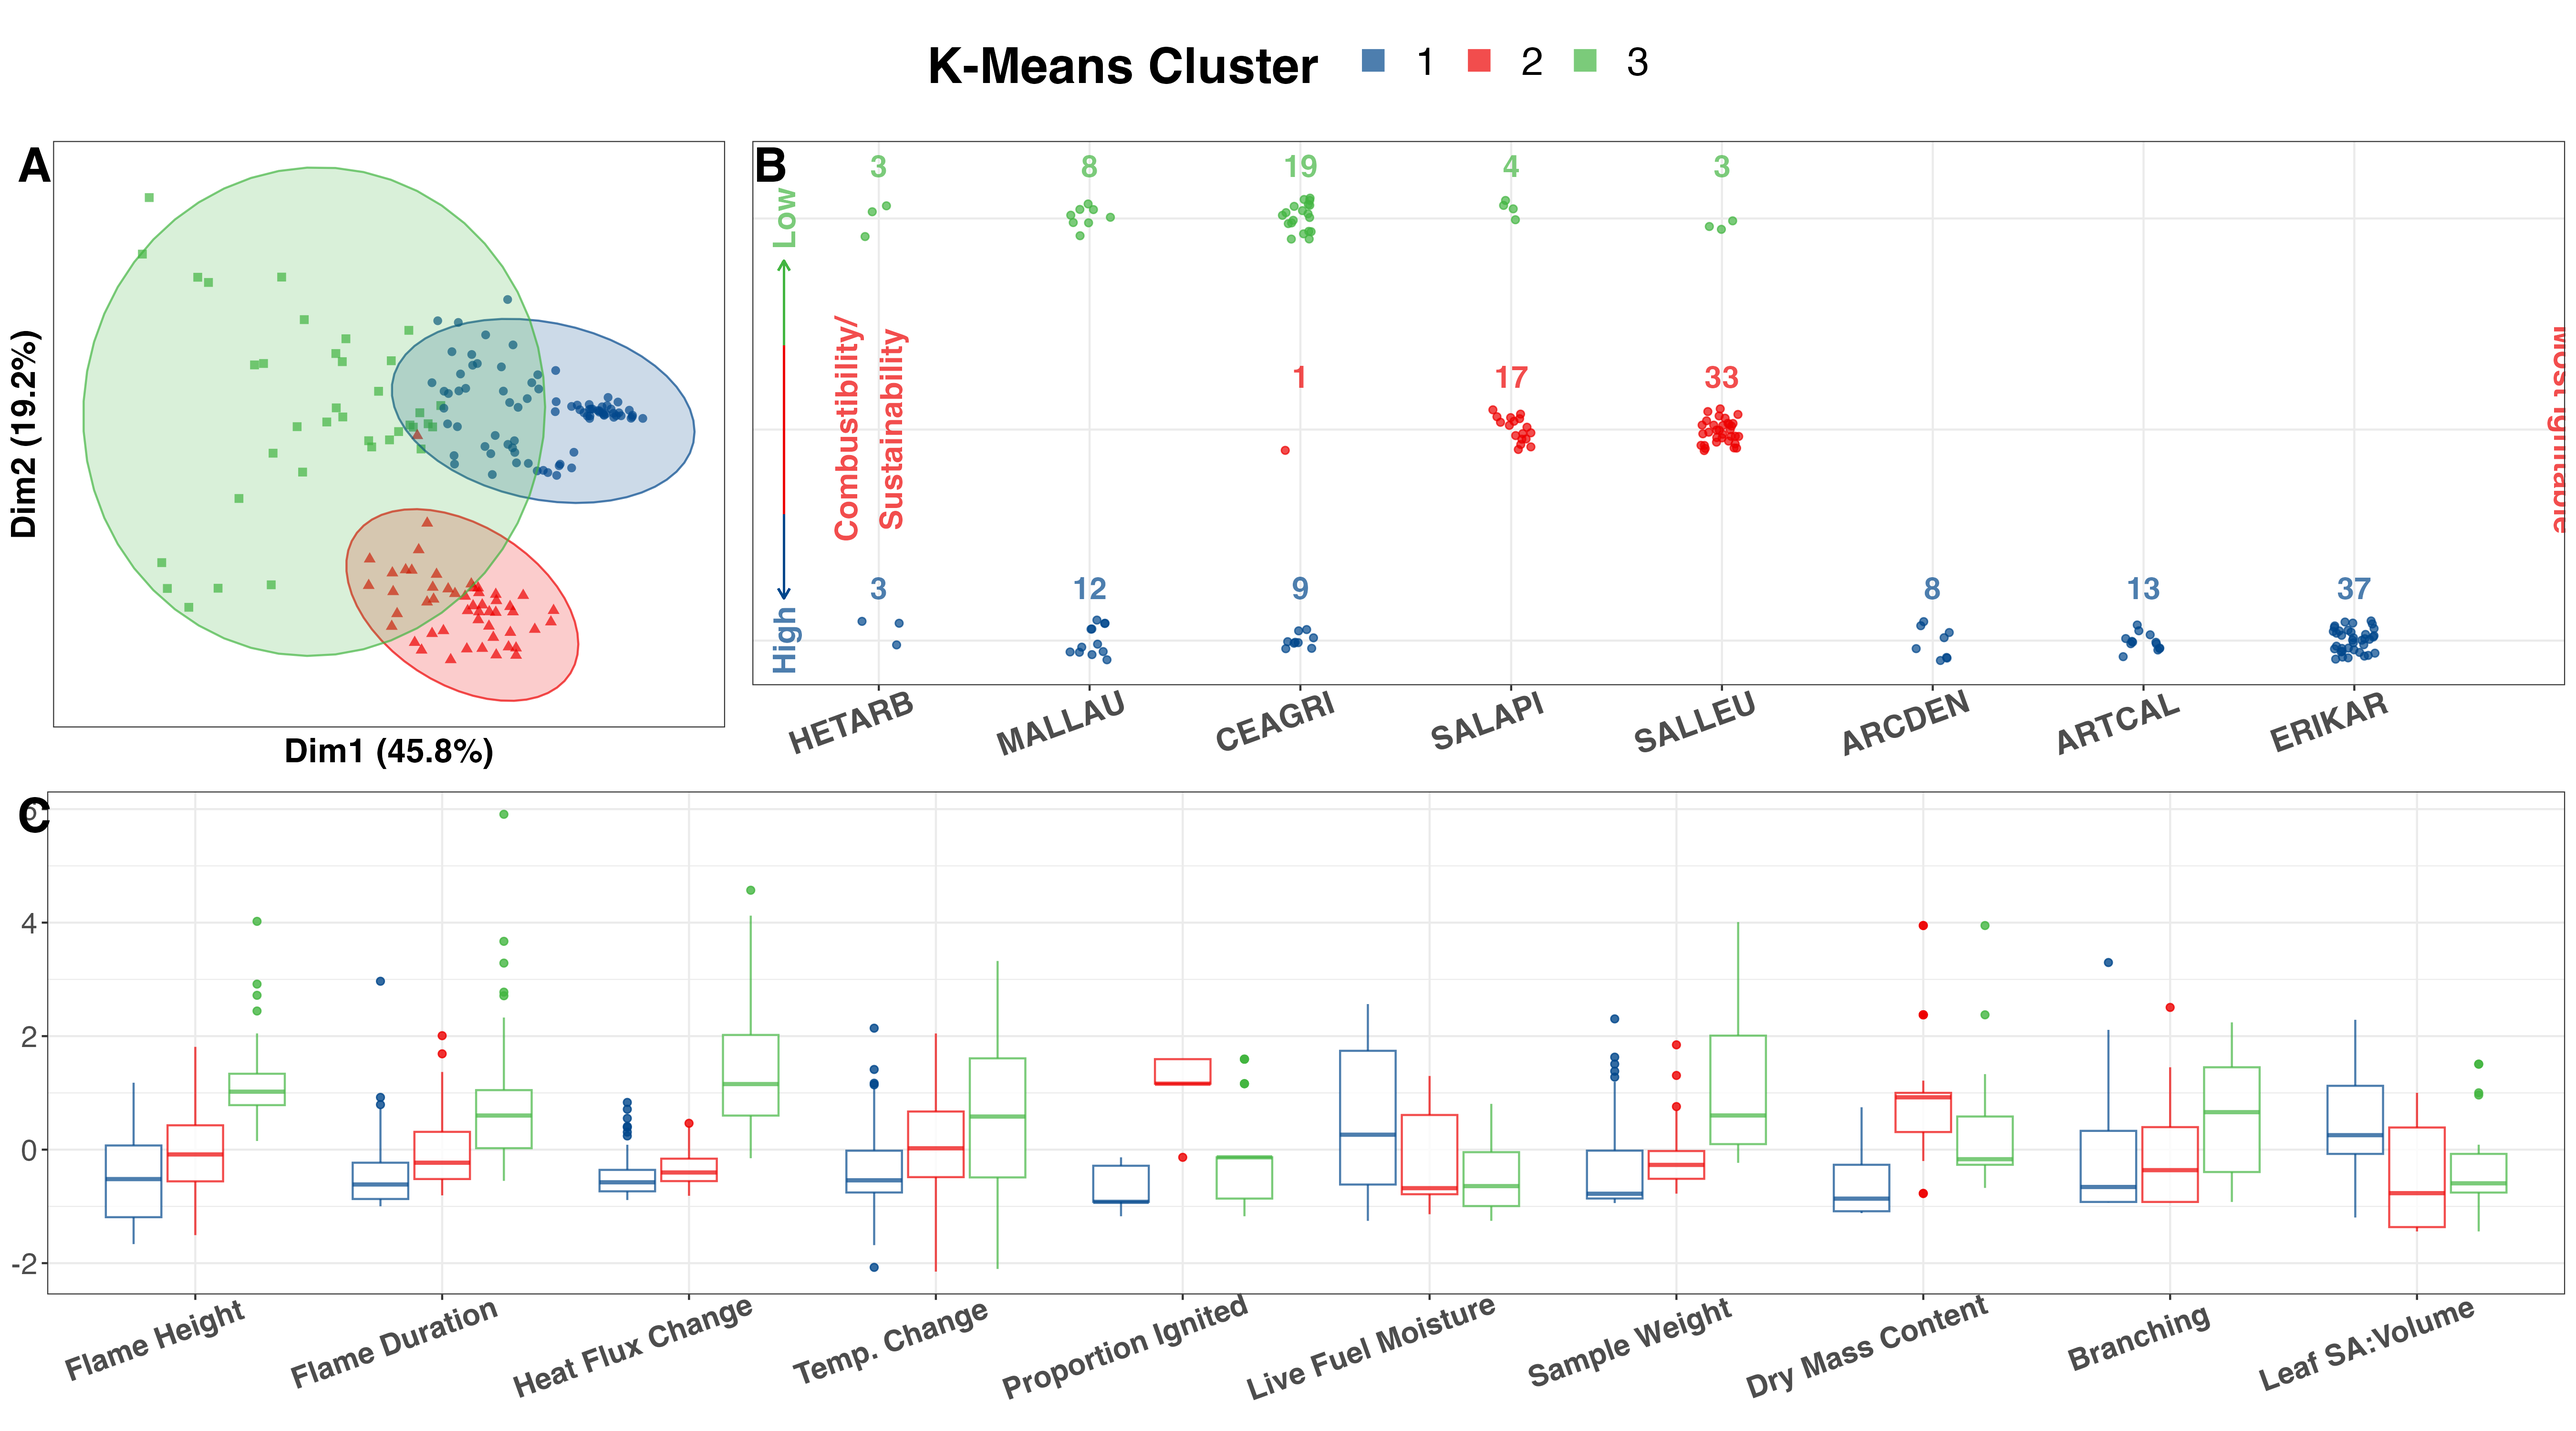
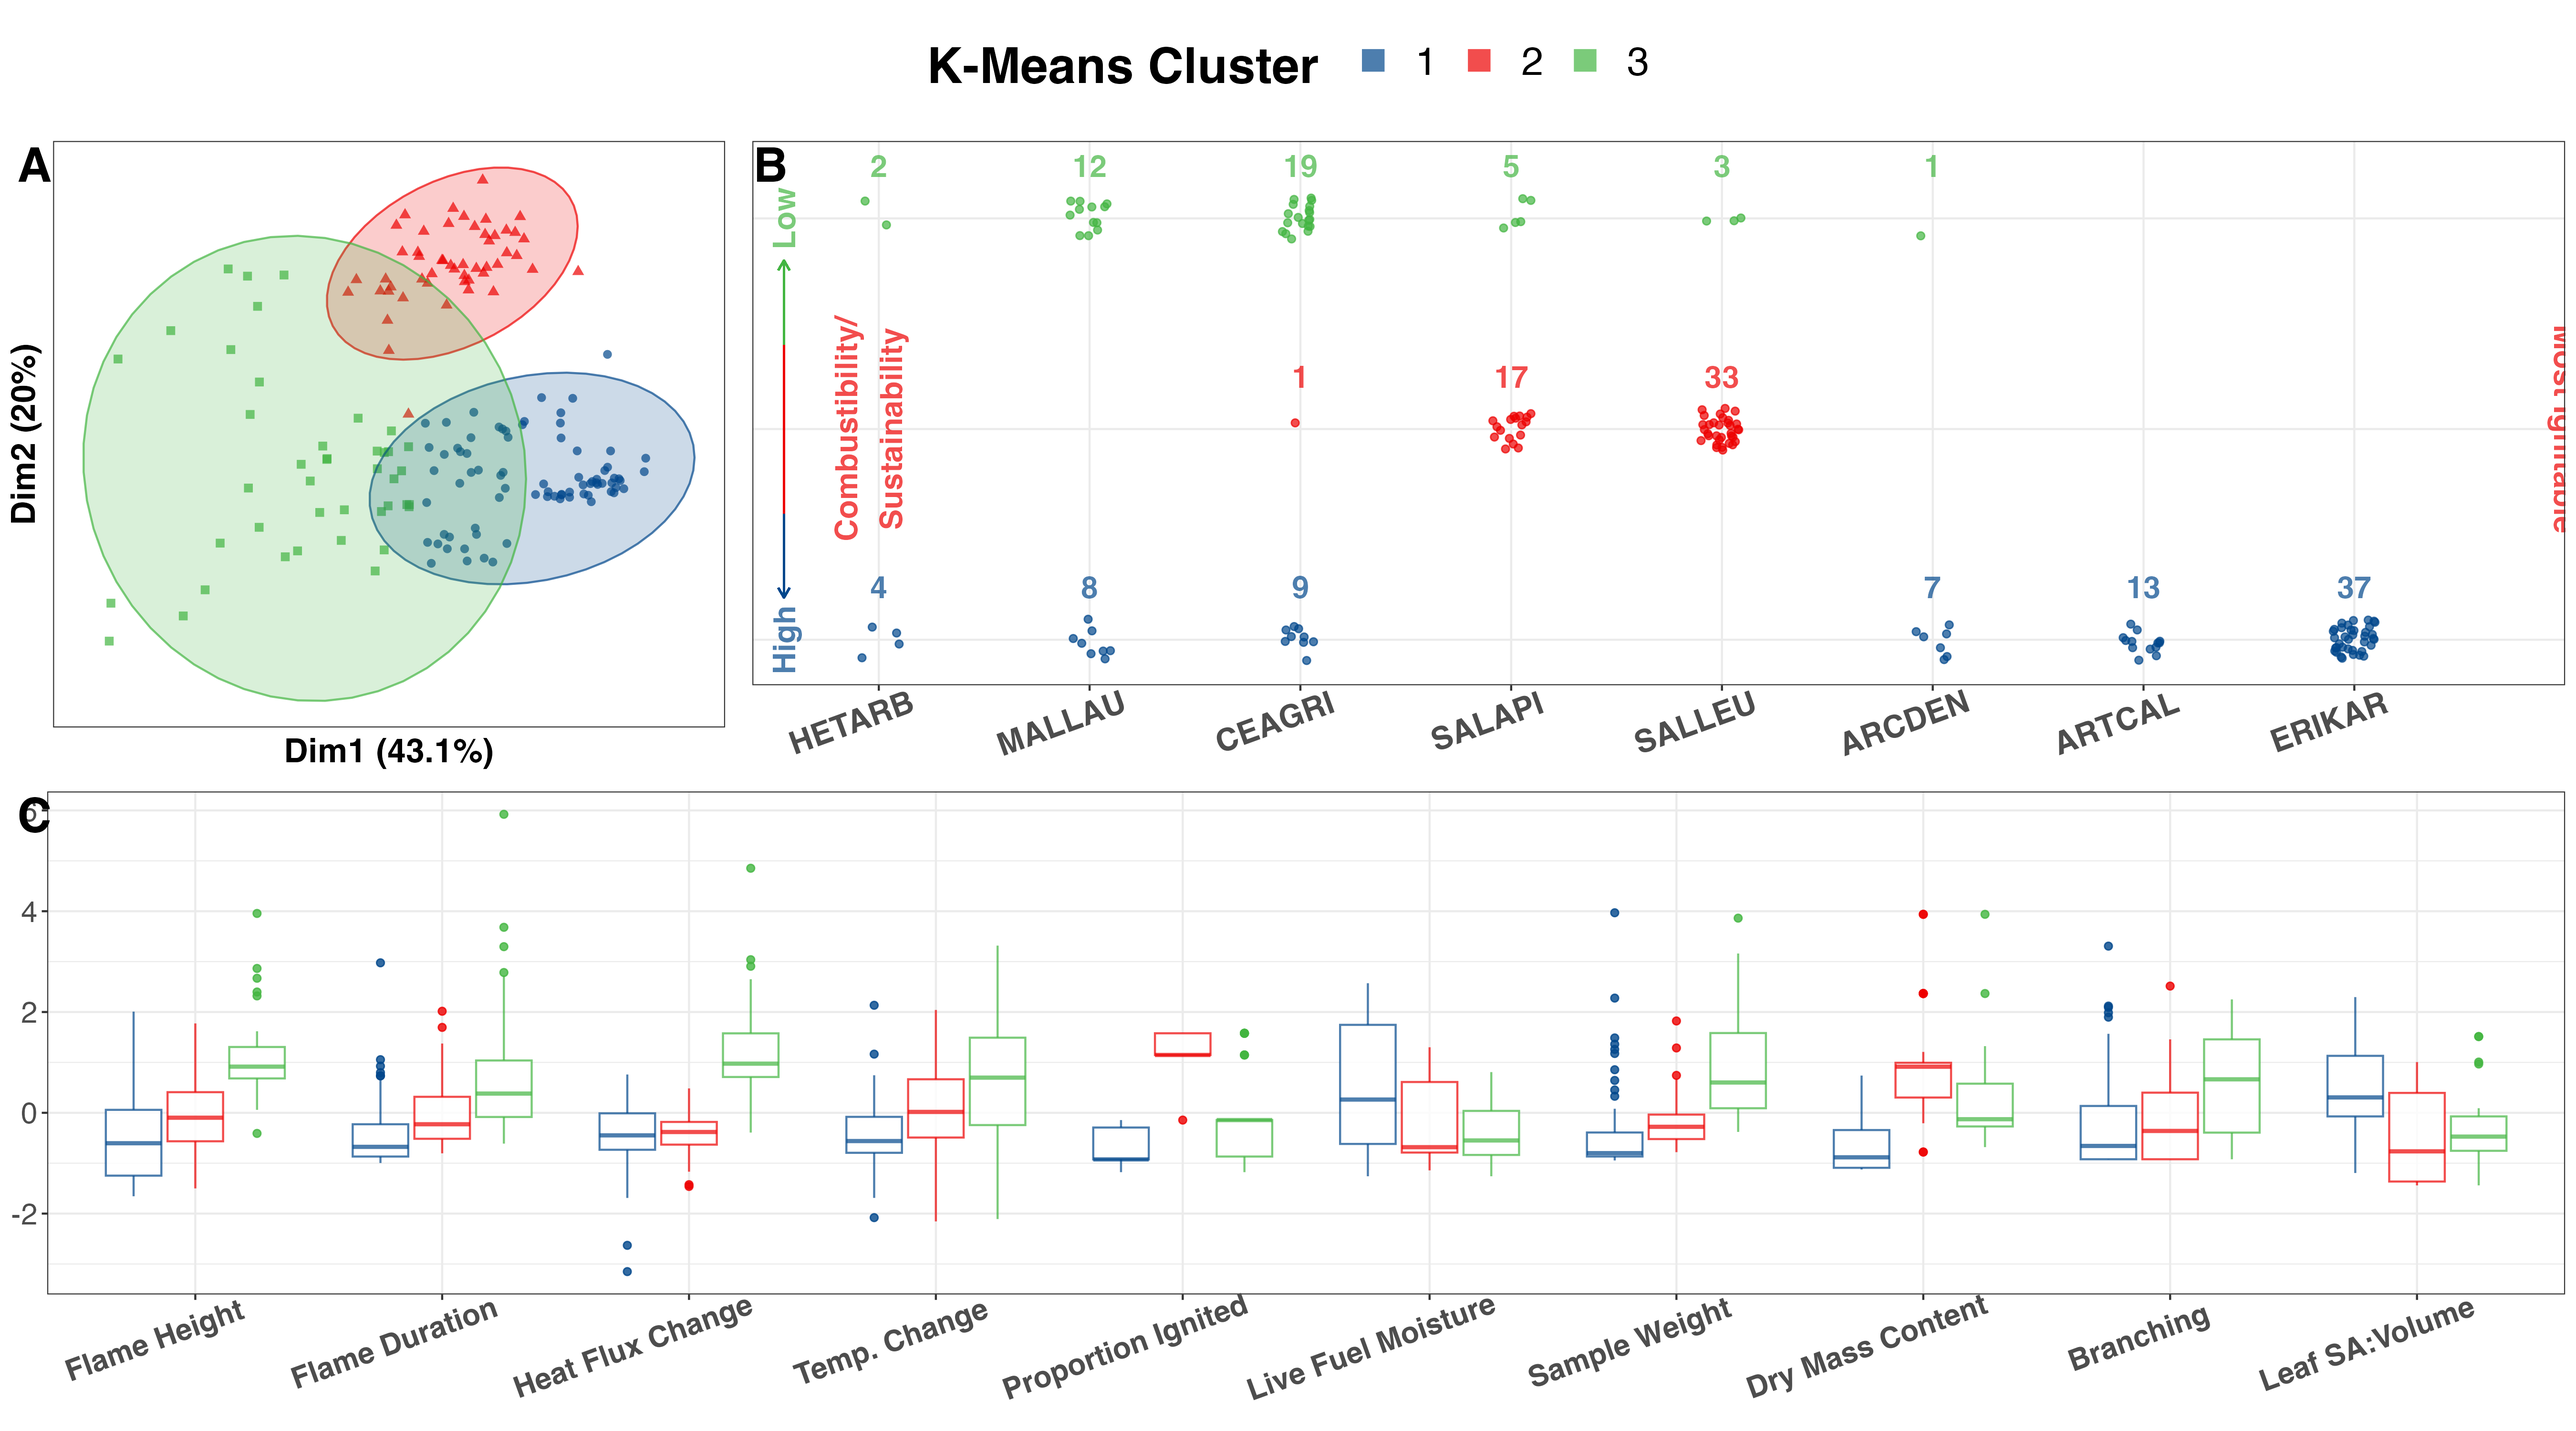
PCA (PC1 vs PC1) and interspecific differences boxplots (with updated heat flux)

diff --git a/figures/PCA/Flamm.PC.Table.html b/figures/PCA/Flamm.PC.Table.html
@@ -11,42 +11,42 @@
 <td style=" border-top:1px solid black;">Flame Duration</td>
 <td style="padding:0.2cm; text-align:center; color:#cccccc; border-top:1px solid black;">-0.18</td>
 <td style="padding:0.2cm; text-align:center; color:#cccccc; border-top:1px solid black;">-0.09</td>
-<td style="padding:0.2cm; text-align:center; border-top:1px solid black;">0.97</td>
-<td style="padding:0.2cm; text-align:center; color:#cccccc; border-top:1px solid black;">-0.15</td>
+<td style="padding:0.2cm; text-align:center; border-top:1px solid black;">-0.97</td>
+<td style="padding:0.2cm; text-align:center; color:#cccccc; border-top:1px solid black;">-0.14</td>
 </tr>
 <tr>
 <td style="">Flame Height</td>
-<td style="padding:0.2cm; text-align:center;">-0.92</td>
-<td style="padding:0.2cm; text-align:center; color:#cccccc;">-0.11</td>
-<td style="padding:0.2cm; text-align:center; color:#cccccc;">0.21</td>
-<td style="padding:0.2cm; text-align:center; color:#cccccc;">-0.30</td>
+<td style="padding:0.2cm; text-align:center;">-0.93</td>
+<td style="padding:0.2cm; text-align:center; color:#cccccc;">-0.13</td>
+<td style="padding:0.2cm; text-align:center; color:#cccccc;">-0.20</td>
+<td style="padding:0.2cm; text-align:center; color:#cccccc;">-0.28</td>
 </tr>
 <tr>
 <td style="">Temp Change</td>
-<td style="padding:0.2cm; text-align:center; color:#cccccc;">-0.10</td>
-<td style="padding:0.2cm; text-align:center;">-0.97</td>
-<td style="padding:0.2cm; text-align:center; color:#cccccc;">0.09</td>
-<td style="padding:0.2cm; text-align:center; color:#cccccc;">-0.20</td>
+<td style="padding:0.2cm; text-align:center; color:#cccccc;">-0.11</td>
+<td style="padding:0.2cm; text-align:center;">-0.98</td>
+<td style="padding:0.2cm; text-align:center; color:#cccccc;">-0.09</td>
+<td style="padding:0.2cm; text-align:center; color:#cccccc;">-0.16</td>
 </tr>
 <tr>
 <td style="">Heat Flux Change</td>
-<td style="padding:0.2cm; text-align:center; color:#cccccc;">-0.33</td>
-<td style="padding:0.2cm; text-align:center; color:#cccccc;">-0.24</td>
-<td style="padding:0.2cm; text-align:center; color:#cccccc;">0.18</td>
-<td style="padding:0.2cm; text-align:center;">-0.89</td>
+<td style="padding:0.2cm; text-align:center; color:#cccccc;">-0.28</td>
+<td style="padding:0.2cm; text-align:center; color:#cccccc;">-0.18</td>
+<td style="padding:0.2cm; text-align:center; color:#cccccc;">-0.15</td>
+<td style="padding:0.2cm; text-align:center;">-0.93</td>
 </tr>
 <tr>
 <td style="padding:0.2cm; font-style:italic; border-top:1px solid;">Proportion of Variance</td>
-<td style="padding:0.2cm; text-align:center; font-style:italic; border-top:1px solid;">55.98&nbsp;%</td>
-<td style="padding:0.2cm; text-align:center; font-style:italic; border-top:1px solid;">20.32&nbsp;%</td>
-<td style="padding:0.2cm; text-align:center; font-style:italic; border-top:1px solid;">15.64&nbsp;%</td>
-<td style="padding:0.2cm; text-align:center; font-style:italic; border-top:1px solid;">8.06&nbsp;%</td>
+<td style="padding:0.2cm; text-align:center; font-style:italic; border-top:1px solid;">52.95&nbsp;%</td>
+<td style="padding:0.2cm; text-align:center; font-style:italic; border-top:1px solid;">20.13&nbsp;%</td>
+<td style="padding:0.2cm; text-align:center; font-style:italic; border-top:1px solid;">16.49&nbsp;%</td>
+<td style="padding:0.2cm; text-align:center; font-style:italic; border-top:1px solid;">10.43&nbsp;%</td>
 </tr>
 <tr>
 <td style="padding:0.2cm; cfont-style:italic; border-top:1px solid;">Cumulative Proportion</td>
-<td style="padding:0.2cm; text-align:center; cfont-style:italic; border-top:1px solid;">55.98&nbsp;%</td>
-<td style="padding:0.2cm; text-align:center; cfont-style:italic; border-top:1px solid;">76.30&nbsp;%</td>
-<td style="padding:0.2cm; text-align:center; cfont-style:italic; border-top:1px solid;">91.94&nbsp;%</td>
+<td style="padding:0.2cm; text-align:center; cfont-style:italic; border-top:1px solid;">52.95&nbsp;%</td>
+<td style="padding:0.2cm; text-align:center; cfont-style:italic; border-top:1px solid;">73.09&nbsp;%</td>
+<td style="padding:0.2cm; text-align:center; cfont-style:italic; border-top:1px solid;">89.57&nbsp;%</td>
 <td style="padding:0.2cm; text-align:center; cfont-style:italic; border-top:1px solid;">100.00&nbsp;%</td>
 </tr>
 <tr>

diff --git a/figures/PCA/Traits.PC.Table.html b/figures/PCA/Traits.PC.Table.html
@@ -10,14 +10,14 @@
 <tr>
 <td style=" border-top:1px solid black;">LFM</td>
 <td style="padding:0.2cm; text-align:center; border-top:1px solid black;">-0.72</td>
-<td style="padding:0.2cm; text-align:center; color:#cccccc; border-top:1px solid black;">0.51</td>
+<td style="padding:0.2cm; text-align:center; color:#cccccc; border-top:1px solid black;">0.52</td>
 <td style="padding:0.2cm; text-align:center; color:#cccccc; border-top:1px solid black;">-0.01</td>
 <td style="padding:0.2cm; text-align:center; color:#cccccc; border-top:1px solid black;">-0.17</td>
 </tr>
 <tr>
 <td style="">Water Potential</td>
 <td style="padding:0.2cm; text-align:center; color:#cccccc;">-0.13</td>
-<td style="padding:0.2cm; text-align:center;">-0.83</td>
+<td style="padding:0.2cm; text-align:center;">-0.82</td>
 <td style="padding:0.2cm; text-align:center; color:#cccccc;">0.06</td>
 <td style="padding:0.2cm; text-align:center; color:#cccccc;">-0.04</td>
 </tr>
@@ -74,17 +74,17 @@ Dry Matter Content</td>
 </tr>
 <tr>
 <td style="padding:0.2cm; font-style:italic; border-top:1px solid;">Proportion of Variance</td>
-<td style="padding:0.2cm; text-align:center; font-style:italic; border-top:1px solid;">45.77&nbsp;%</td>
-<td style="padding:0.2cm; text-align:center; font-style:italic; border-top:1px solid;">16.71&nbsp;%</td>
-<td style="padding:0.2cm; text-align:center; font-style:italic; border-top:1px solid;">12.31&nbsp;%</td>
-<td style="padding:0.2cm; text-align:center; font-style:italic; border-top:1px solid;">10.47&nbsp;%</td>
+<td style="padding:0.2cm; text-align:center; font-style:italic; border-top:1px solid;">45.73&nbsp;%</td>
+<td style="padding:0.2cm; text-align:center; font-style:italic; border-top:1px solid;">16.75&nbsp;%</td>
+<td style="padding:0.2cm; text-align:center; font-style:italic; border-top:1px solid;">12.30&nbsp;%</td>
+<td style="padding:0.2cm; text-align:center; font-style:italic; border-top:1px solid;">10.45&nbsp;%</td>
 </tr>
 <tr>
 <td style="padding:0.2cm; cfont-style:italic; border-top:1px solid;">Cumulative Proportion</td>
-<td style="padding:0.2cm; text-align:center; cfont-style:italic; border-top:1px solid;">45.77&nbsp;%</td>
+<td style="padding:0.2cm; text-align:center; cfont-style:italic; border-top:1px solid;">45.73&nbsp;%</td>
 <td style="padding:0.2cm; text-align:center; cfont-style:italic; border-top:1px solid;">62.48&nbsp;%</td>
-<td style="padding:0.2cm; text-align:center; cfont-style:italic; border-top:1px solid;">74.79&nbsp;%</td>
-<td style="padding:0.2cm; text-align:center; cfont-style:italic; border-top:1px solid;">85.26&nbsp;%</td>
+<td style="padding:0.2cm; text-align:center; cfont-style:italic; border-top:1px solid;">74.78&nbsp;%</td>
+<td style="padding:0.2cm; text-align:center; cfont-style:italic; border-top:1px solid;">85.23&nbsp;%</td>
 </tr>
 <tr>
 <td style="padding:0.2cm; text-align:right; font-style:italic; font-size:0.9em;" colspan="5">varimax-rotation</td>
